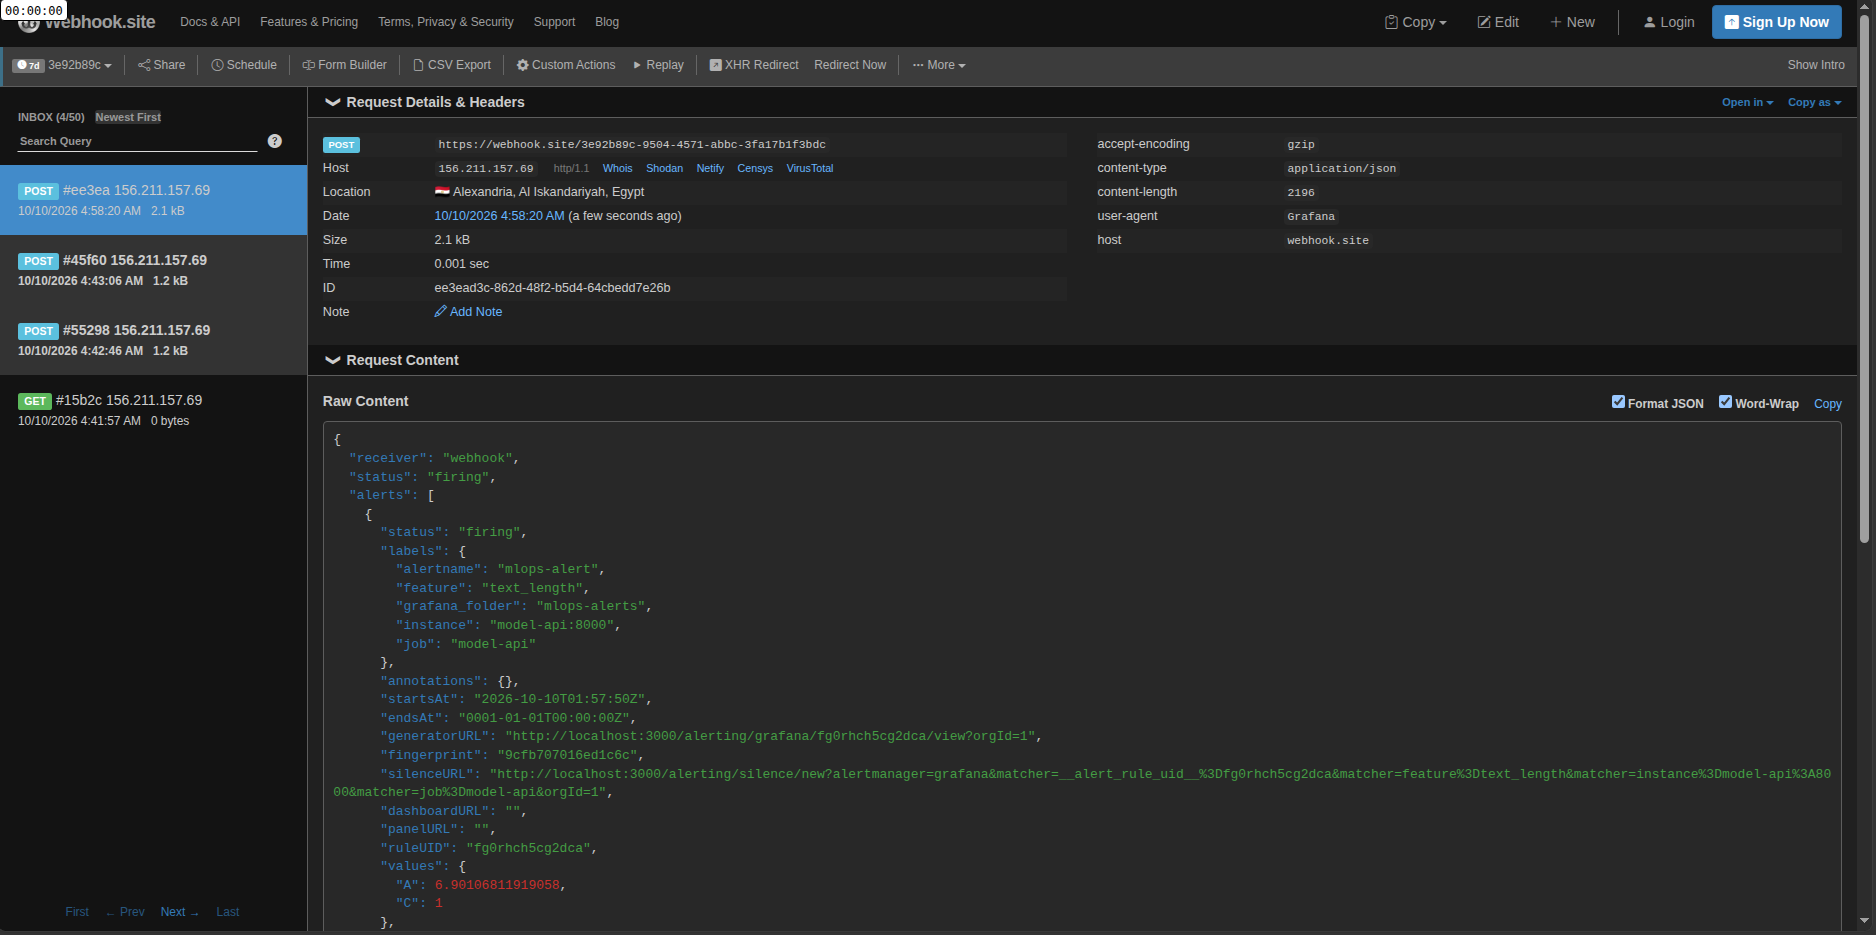
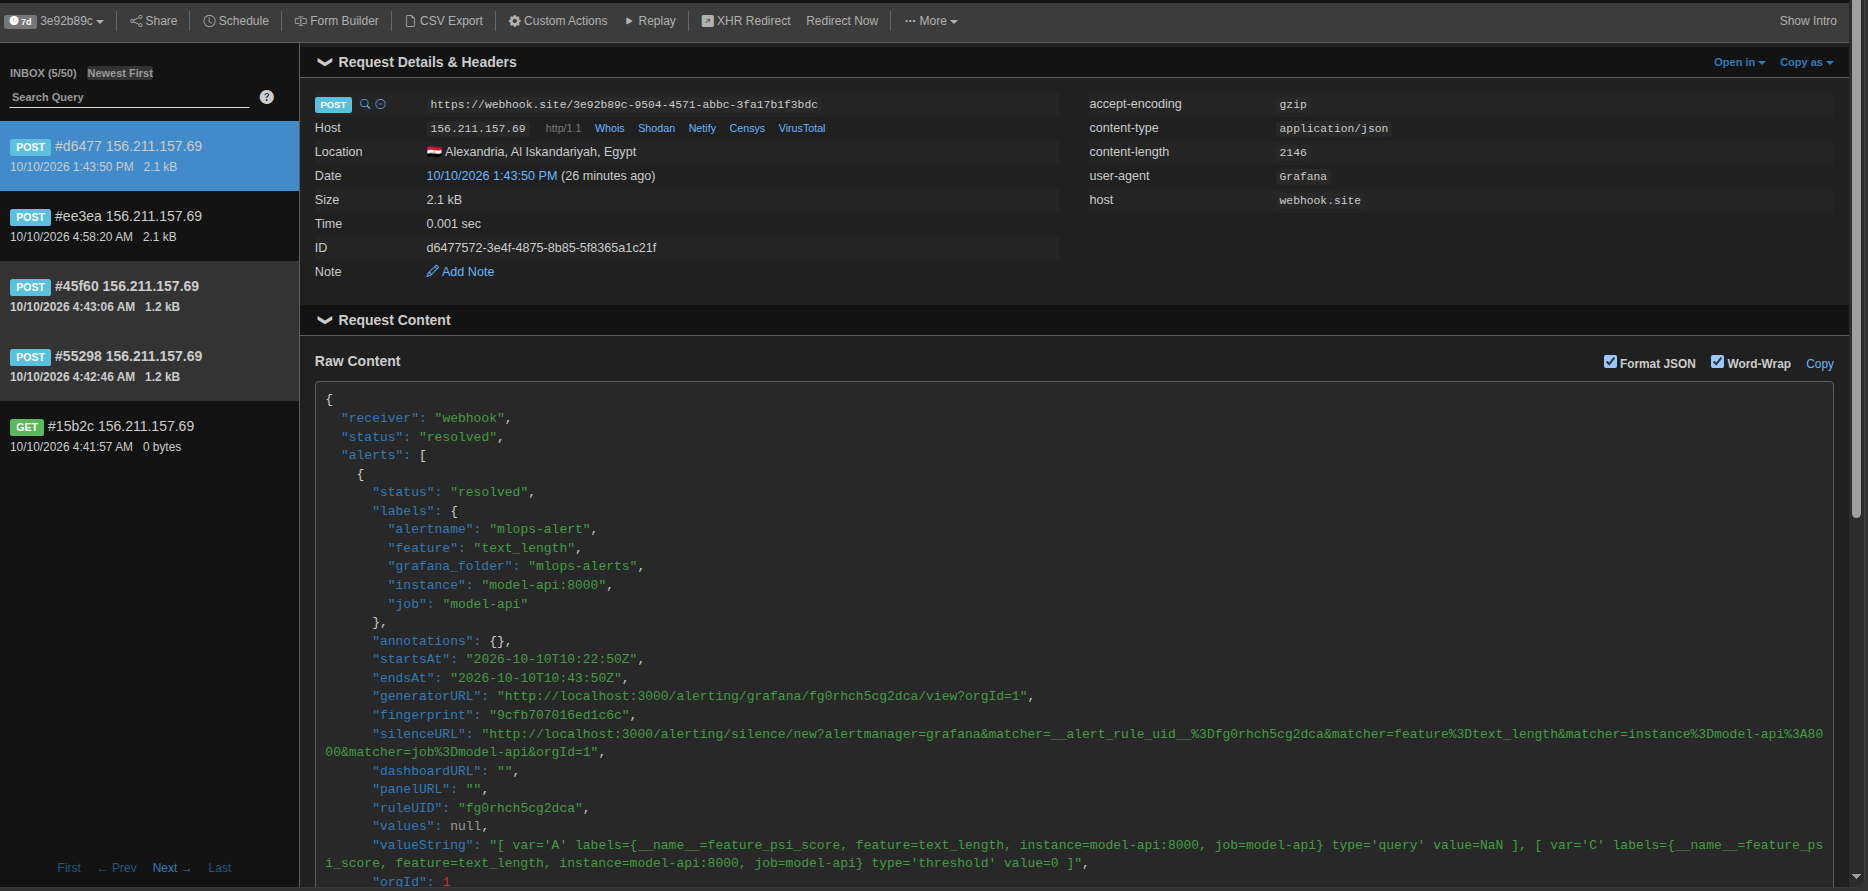
Adding images needed in README.

diff --git a/notebooks/promote.py b/notebooks/promote.py
@@ -47,10 +47,10 @@ def main():
     client.set_tag(run_id=best_run_id, key="status", value="production")
     print("Promoted run to status='production'.")
 
-    with open("best_run.txt", "w") as f:
+    with open("data/best_run.txt", "w") as f:
         f.write(f"run_id: {best_run_id}\n{METRIC_NAME}: {best_score}\n")
 
-    with open("best_run.txt", "r") as f:
+    with open("data/best_run.txt", "r") as f:
         for line in f:
             if line.startswith("run_id:"):
                 run_id = line.split(":", 1)[1].strip()
